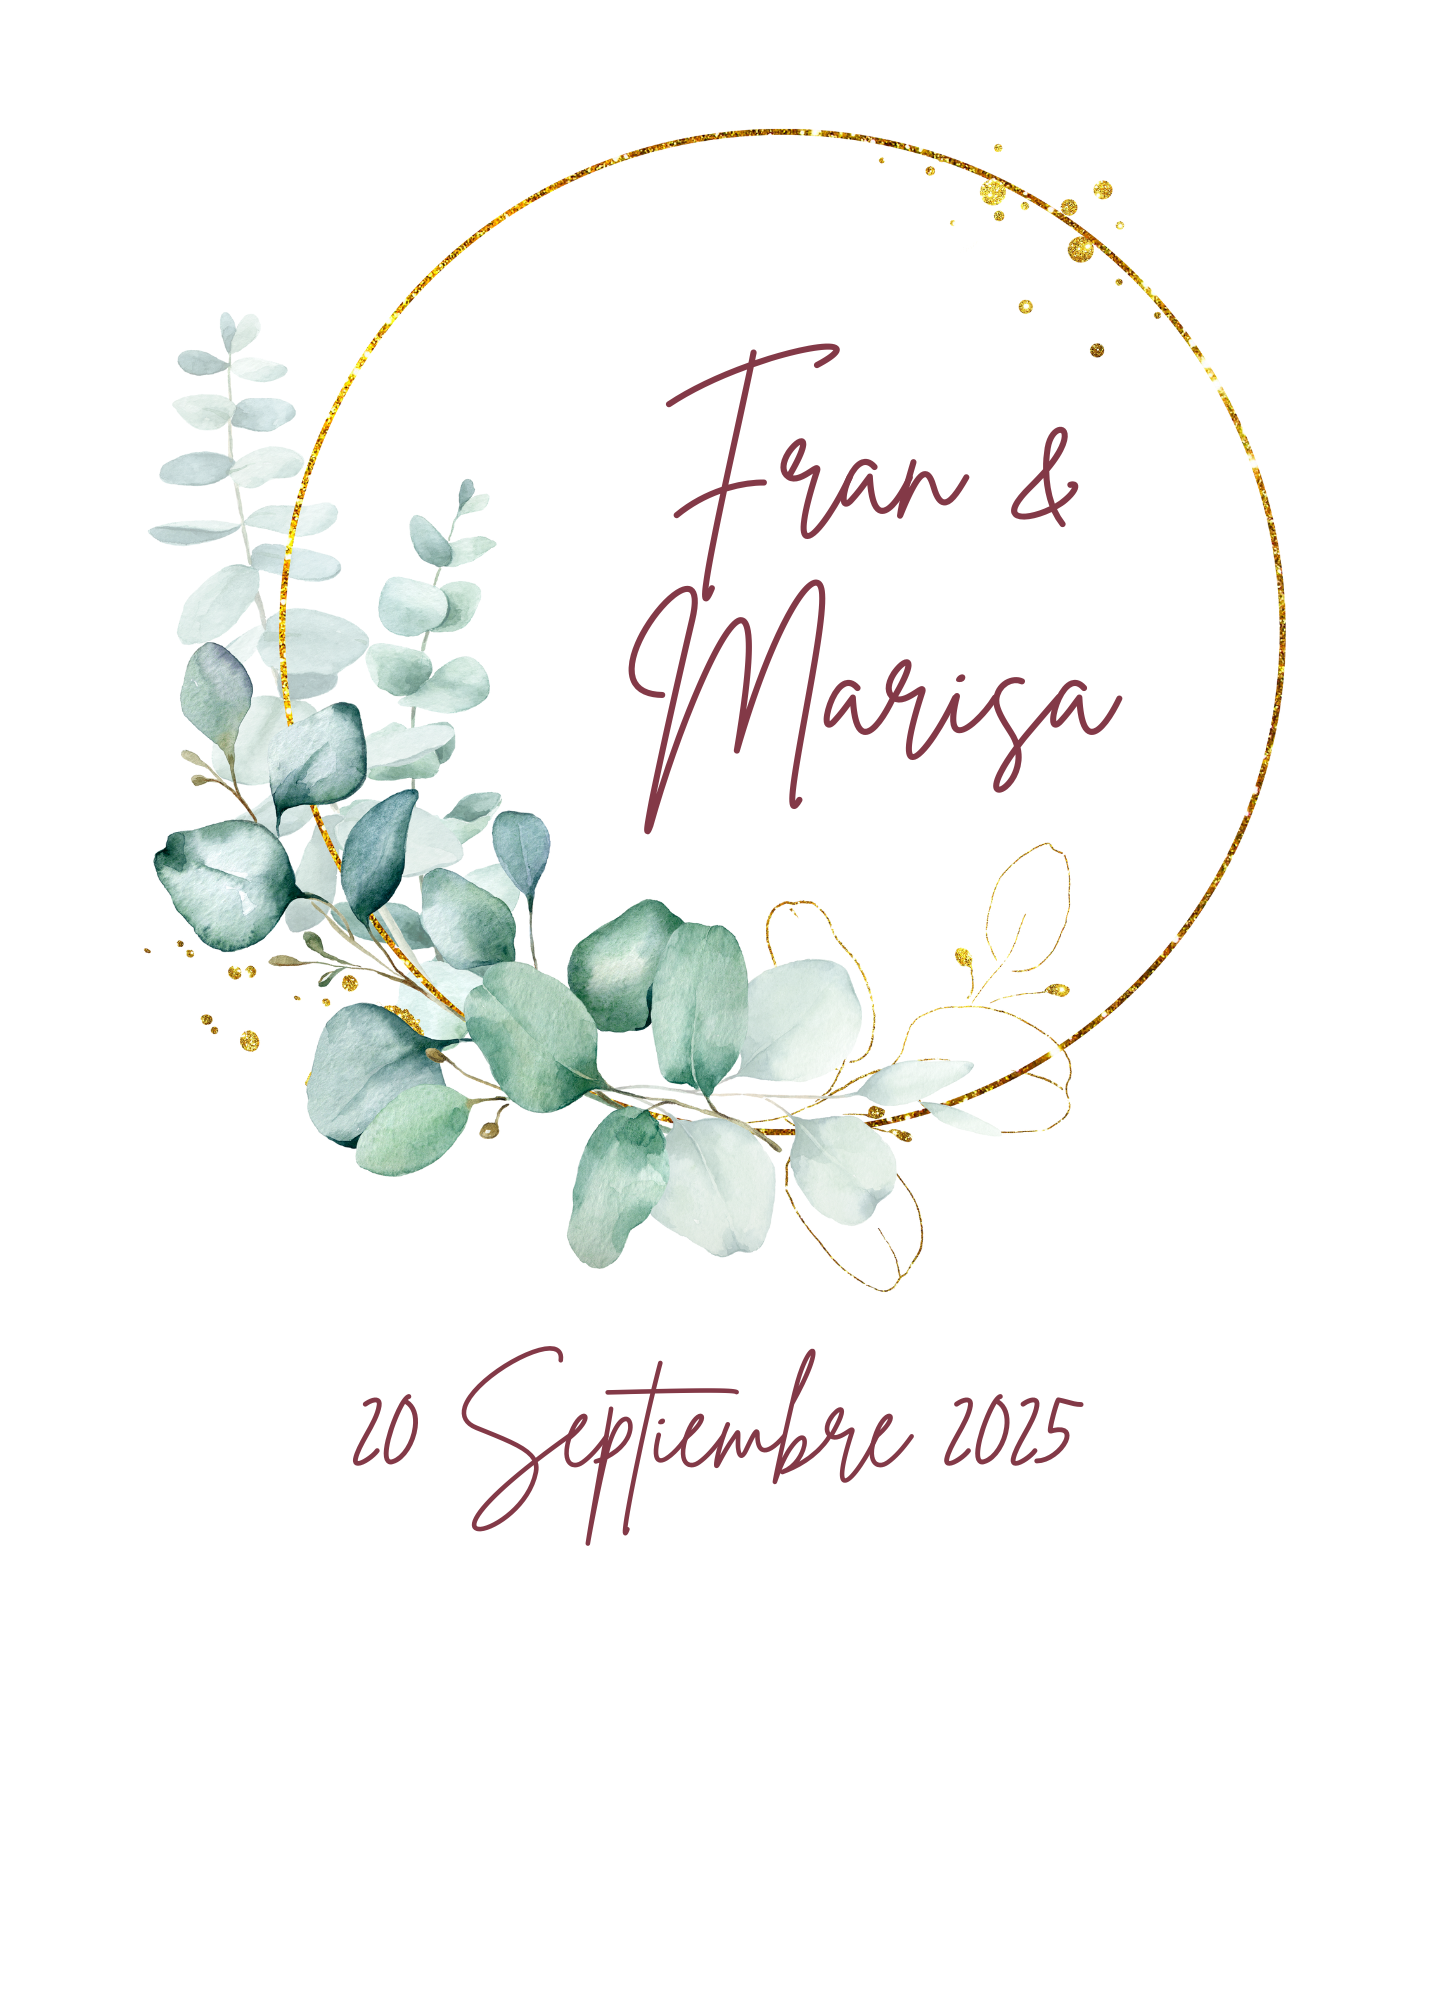
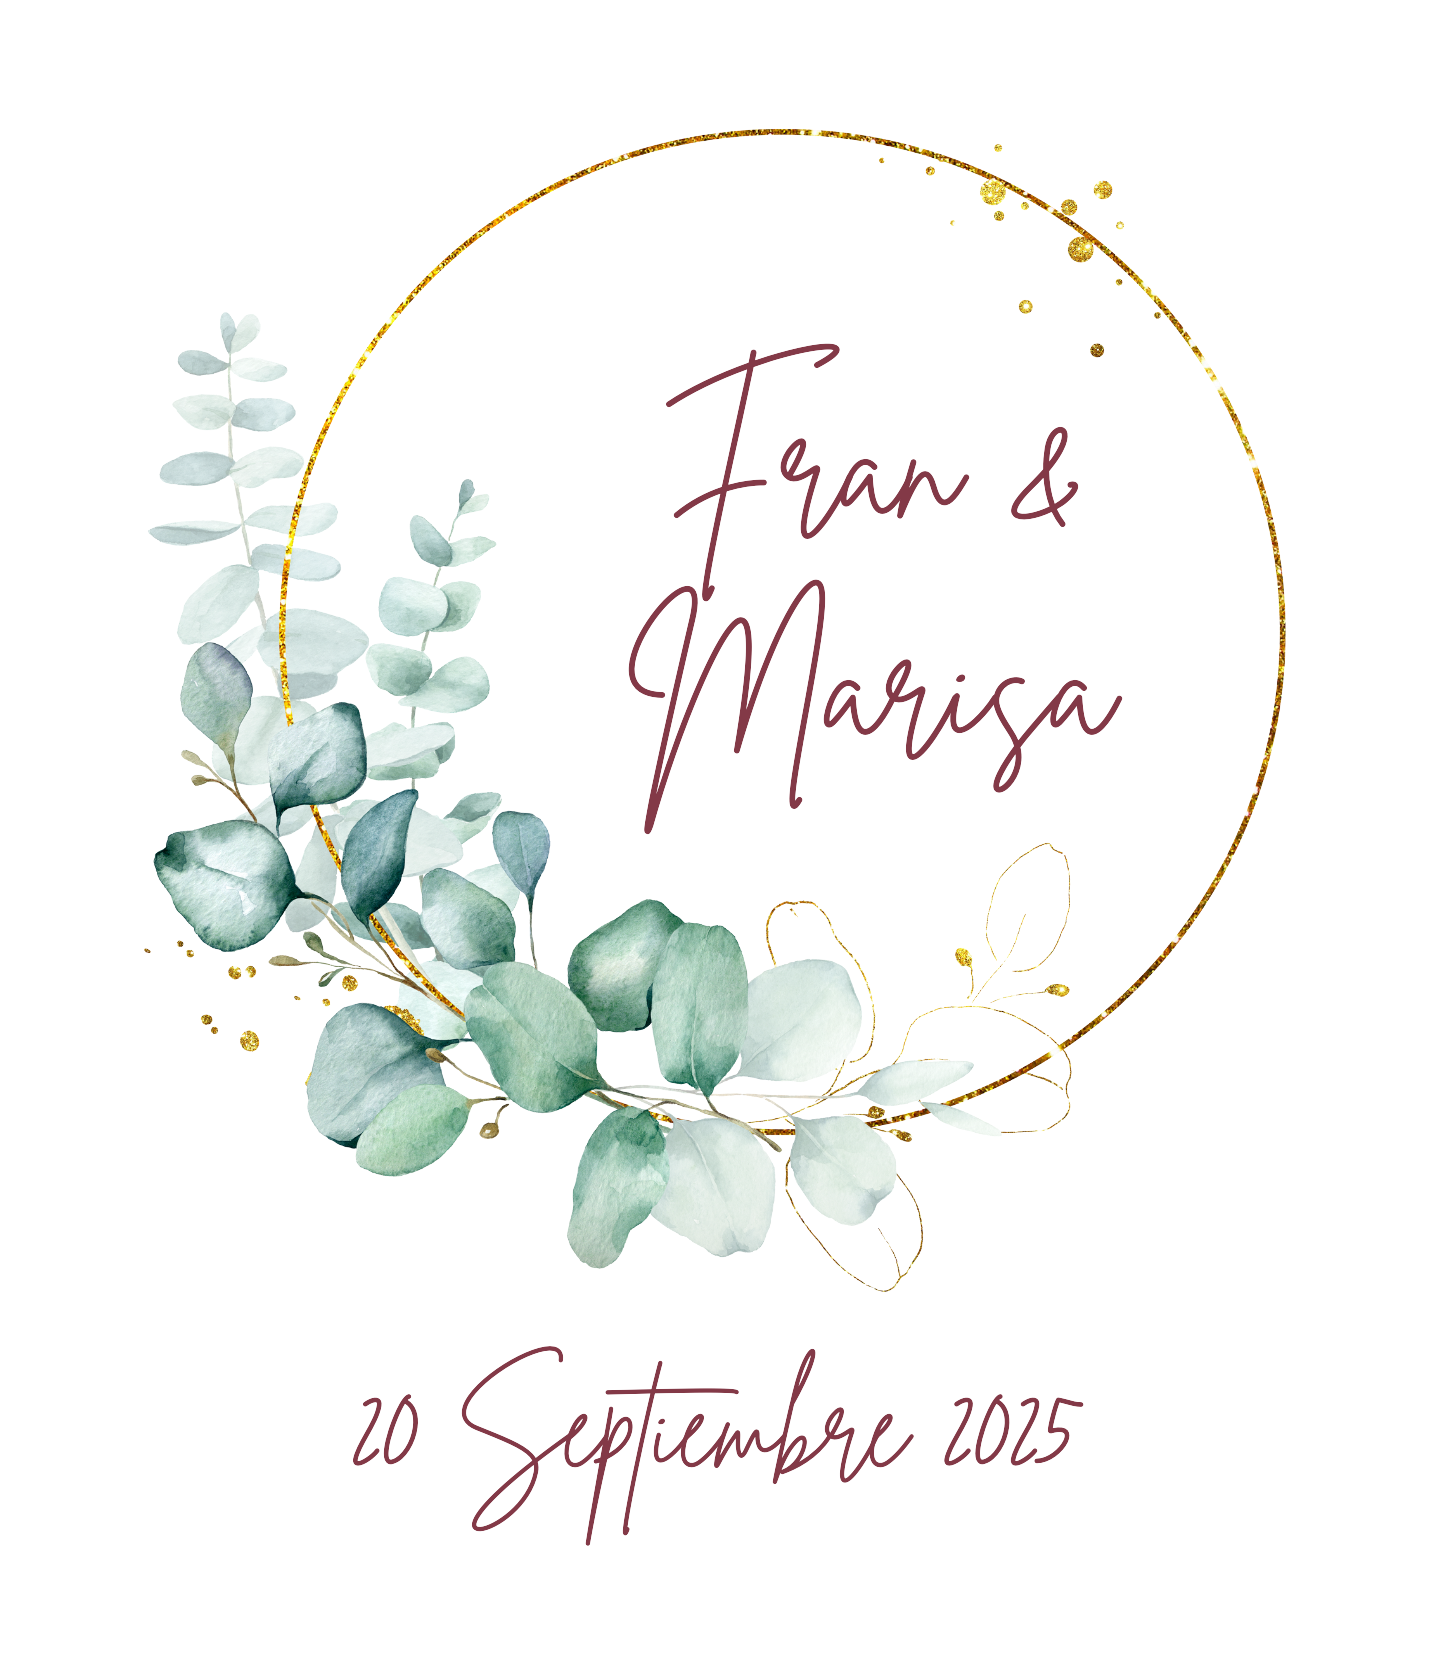
Fix header

diff --git a/www/css/style.css b/www/css/style.css
@@ -26,12 +26,11 @@ body.custom-body {
 /* PORTADA */
 
 header {
-    background-size: contain;
+    background-size: cover;
     background-image: url('images/header.png');
     background-repeat: no-repeat;
     background-position: center;
     height: 400px;
-    margin-top: 30px;
 }
 
 .scroll-reveal {
